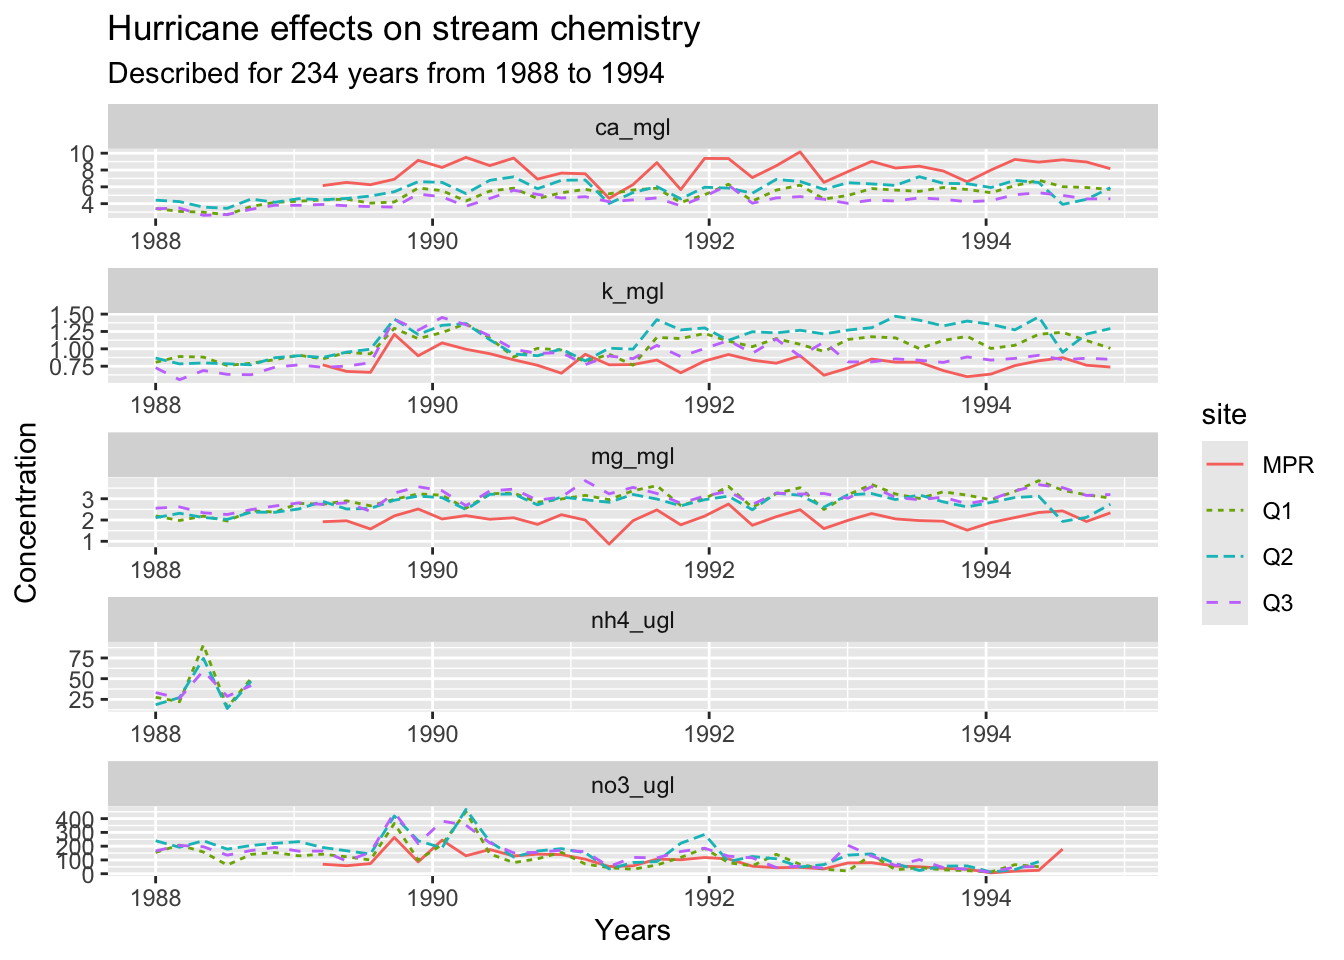
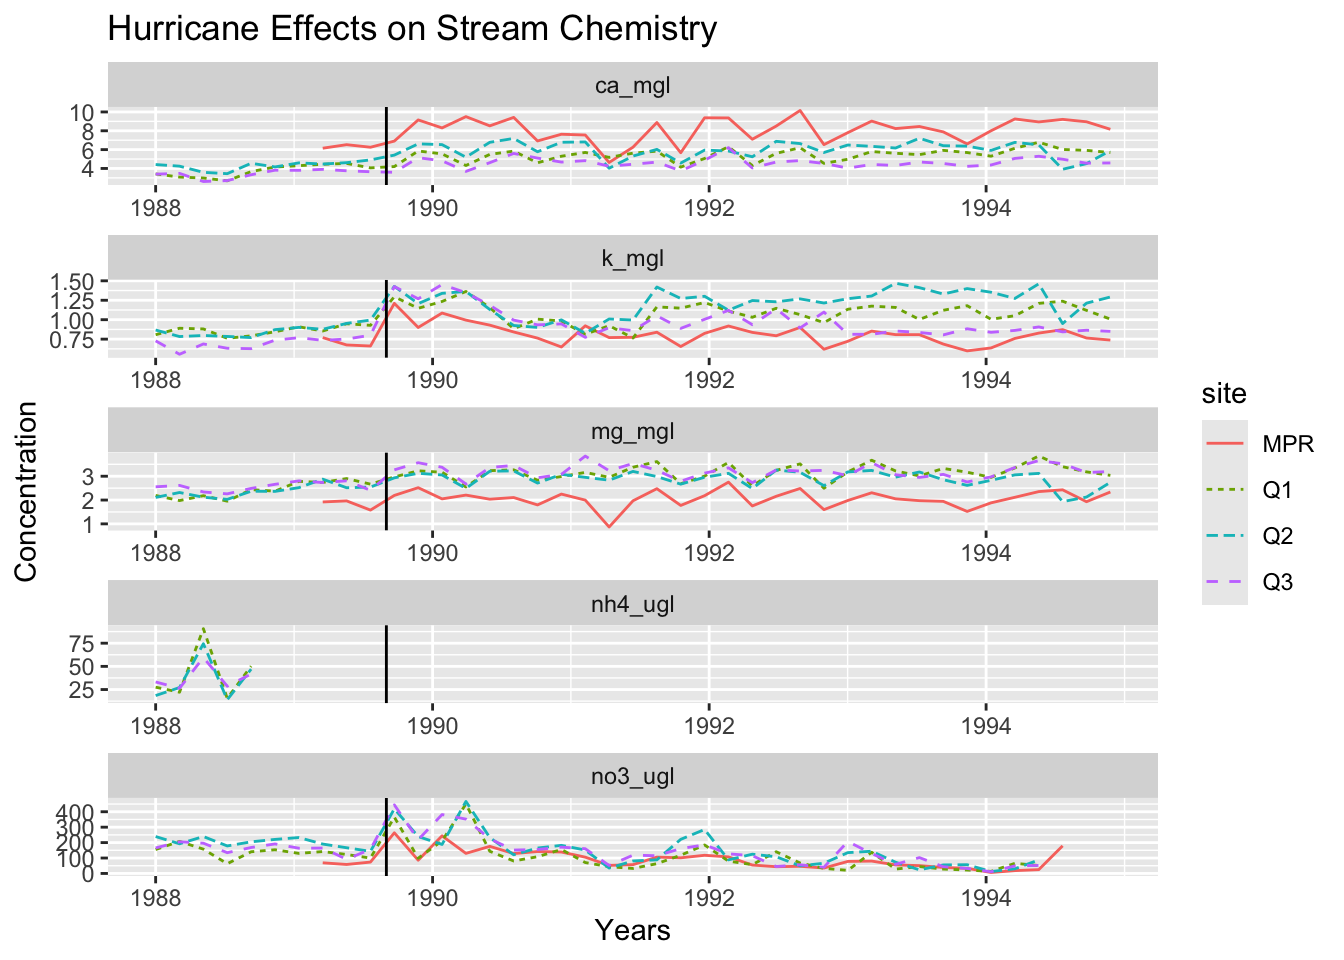
final project pm

Changed region(s): [[0.0312, 0.0, 0.9688, 0.9062], [0.0, 0.4062, 0.0312, 0.625]]

diff --git a/docs/paper.html b/docs/paper.html
@@ -9,7 +9,7 @@
 <meta name="author" content="Karla Ramos">
 <meta name="dcterms.date" content="2026-08-28">
 
-<title>Hurricane Hugos’ impact on stream chemistry in Brisley, Puerto Rico</title>
+<title>Hurricane Hugo’s disturbance on Stream Chemistry in Brisley, Puerto Rico</title>
 <style>
 /* Default styles provided by pandoc.
 ** See https://pandoc.org/MANUAL.html#variables-for-html for config info.
@@ -90,6 +90,7 @@ pre > code.sourceCode > span > a:first-child::before { text-decoration: underlin
   <li><a href="#data" id="toc-data" class="nav-link" data-scroll-target="#data"><span class="header-section-number">2</span> Data</a></li>
   <li><a href="#methods" id="toc-methods" class="nav-link" data-scroll-target="#methods"><span class="header-section-number">3</span> Methods</a></li>
   <li><a href="#results" id="toc-results" class="nav-link" data-scroll-target="#results"><span class="header-section-number">4</span> Results</a></li>
+  <li><a href="#refrences" id="toc-refrences" class="nav-link" data-scroll-target="#refrences"><span class="header-section-number">5</span> Refrences</a></li>
   </ul>
 </nav>
 </div>
@@ -97,7 +98,7 @@ pre > code.sourceCode > span > a:first-child::before { text-decoration: underlin
 
 <header id="title-block-header" class="quarto-title-block default">
 <div class="quarto-title">
-<h1 class="title">Hurricane Hugos’ impact on stream chemistry in Brisley, Puerto Rico</h1>
+<h1 class="title">Hurricane Hugo’s disturbance on Stream Chemistry in Brisley, Puerto Rico</h1>
 </div>
 
 
@@ -128,17 +129,17 @@ pre > code.sourceCode > span > a:first-child::before { text-decoration: underlin
 
 <section id="background" class="level2" data-number="1">
 <h2 data-number="1" class="anchored" data-anchor-id="background"><span class="header-section-number">1</span> Background</h2>
-<p>This repository purpose is to reproduce figure 3 from Schaefer et al.&nbsp;(2000), that demonstrated the changes in stream chemistry overtime including hurricane disturbance by Huricane Hugo. The analysis focus on concentration changes in (a) potassium, (b) nitrate-N, (c) magnesium, (d) calcium and (e) ammonium-N in Bisley bason and Rio Mameyes Punete Roto.</p>
+<p>This repository purpose is to reproduce figure 3 from Schaefer et al.&nbsp;(2000), that demonstrate the changes in stream chemistry overtime including hurricane disturbance by Huricane Hugo. The analysis focus on concentration changes in (a) potassium, (b) nitrate-N, (c) magnesium, (d) calcium and (e) ammonium-N in Bisley bason and Rio Mameyes Punete Roto.</p>
 </section>
 <section id="data" class="level2" data-number="2">
 <h2 data-number="2" class="anchored" data-anchor-id="data"><span class="header-section-number">2</span> Data</h2>
-<p>Raw data was downloaded from the Environmental Data Initiative. https://doi.org/10.6073/pasta/f31349bebdc304f758718f4798d25458.</p>
-<p>McDowell, W. and International Institute of Tropical Forestry(IITF), USDA Forest Service.. 2024. Chemistry of stream water from the Luquillo Mountains ver 4923064.</p>
+<p>Raw data was downloaded from the Environmental Data Initiative. <a href="https://doi.org/10.6073/pasta/f31349bebdc304f758718f4798d25458." class="uri">https://doi.org/10.6073/pasta/f31349bebdc304f758718f4798d25458.</a></p>
+<p>McDowell, W. and International Institute of Tropical Forestry(IITF), USDA Forest Service. 2024. Chemistry of stream water from the Luquillo Mountains ver 4923064.</p>
 </section>
 <section id="methods" class="level2" data-number="3">
 <h2 data-number="3" class="anchored" data-anchor-id="methods"><span class="header-section-number">3</span> Methods</h2>
-<p>1_Cleaned_data was developed by applying moving-average() and tidy-data() functions. The tidy_data function filters all the data from 1988-1994 and selects the ions needed for analysis. The moving-average function applies 9 week moving average and calulates the mean average for every site.</p>
-<p>Sites are combined into one data frame to develop a csv found in ouput/. With the ouput data you will pivot longer to collapse all ions into one column to facit by ion.</p>
+<p>A 9 week moving average was applied to the raw data and filtered to include the concentrations needed to create figure 3.</p>
+<p>Final data combined all ions into one column to assist with plotting.</p>
 </section>
 <section id="results" class="level2" data-number="4">
 <h2 data-number="4" class="anchored" data-anchor-id="results"><span class="header-section-number">4</span> Results</h2>
@@ -161,10 +162,10 @@ pre > code.sourceCode > span > a:first-child::before { text-decoration: underlin
 <span id="cb1-16"><a href="#cb1-16" aria-hidden="true" tabindex="-1"></a>) <span class="sc">+</span></span>
 <span id="cb1-17"><a href="#cb1-17" aria-hidden="true" tabindex="-1"></a>  <span class="fu">geom_line</span>() <span class="sc">+</span></span>
 <span id="cb1-18"><a href="#cb1-18" aria-hidden="true" tabindex="-1"></a>  <span class="fu">facet_wrap</span>(<span class="sc">~</span>Ion, <span class="at">scales =</span> <span class="st">"free"</span>, <span class="at">ncol =</span> <span class="dv">1</span>) <span class="sc">+</span></span>
-<span id="cb1-19"><a href="#cb1-19" aria-hidden="true" tabindex="-1"></a>  <span class="fu">labs</span>(</span>
-<span id="cb1-20"><a href="#cb1-20" aria-hidden="true" tabindex="-1"></a>    <span class="at">title =</span> <span class="st">"Hurricane effects on stream chemistry"</span>,</span>
-<span id="cb1-21"><a href="#cb1-21" aria-hidden="true" tabindex="-1"></a>    <span class="at">subtitle =</span> <span class="fu">paste0</span>(<span class="st">"Described for "</span>, <span class="fu">nrow</span>(mpg), <span class="st">" years from 1988 to 1994"</span>),</span>
-<span id="cb1-22"><a href="#cb1-22" aria-hidden="true" tabindex="-1"></a>    <span class="at">x =</span> <span class="st">"Years"</span>,</span>
+<span id="cb1-19"><a href="#cb1-19" aria-hidden="true" tabindex="-1"></a>  <span class="fu">geom_vline</span>(<span class="at">xintercept =</span> <span class="fu">as.Date</span>(<span class="st">"1989-09-01"</span>)) <span class="sc">+</span></span>
+<span id="cb1-20"><a href="#cb1-20" aria-hidden="true" tabindex="-1"></a>  <span class="fu">labs</span>(</span>
+<span id="cb1-21"><a href="#cb1-21" aria-hidden="true" tabindex="-1"></a>    <span class="at">title =</span> <span class="st">"Hurricane Effects on Stream Chemistry"</span>,</span>
+<span id="cb1-22"><a href="#cb1-22" aria-hidden="true" tabindex="-1"></a>    <span class="at">x =</span> <span class="st">"Years"</span></span>
 <span id="cb1-23"><a href="#cb1-23" aria-hidden="true" tabindex="-1"></a>  )</span></code></pre></div><button title="Copy to Clipboard" class="code-copy-button"><i class="bi"></i></button></div>
 <div class="cell-output-display">
 <div>
@@ -174,6 +175,12 @@ pre > code.sourceCode > span > a:first-child::before { text-decoration: underlin
 </div>
 </div>
 </div>
+<p>The results demonstrate the average streamwater concentration before and after the disturbance of Huricane Hugo.</p>
+</section>
+<section id="refrences" class="level2" data-number="5">
+<h2 data-number="5" class="anchored" data-anchor-id="refrences"><span class="header-section-number">5</span> Refrences</h2>
+<p>McDowell, W. and International Institute of Tropical Forestry(IITF), USDA Forest Service.. 2024. Chemistry of stream water from the Luquillo Mountains ver 4923064. Environmental Data Initiative. <a href="https://doi.org/10.6073/pasta/f31349bebdc304f758718f4798d25458" class="uri">https://doi.org/10.6073/pasta/f31349bebdc304f758718f4798d25458</a> (Accessed 2026-08-25).</p>
+<p>Schaefer, Douglas. A., William H. McDowell, Fredrick N. Scatena, and Clyde E. Asbury. 2000. “Effects of Hurricane Disturbance on Stream Water Concentrations and Fluxes in Eight Tropical Forest Watersheds of the Luquillo Experimental Forest, Puerto Rico.” <em>Journal of Tropical Ecology</em> 16 (2): 189–207. <a href="https://doi.org/10.1017/s0266467400001358." class="uri">https://doi.org/10.1017/s0266467400001358.</a></p>
 </section>
 
 </main>

diff --git a/README.html b/README.html
@@ -70,17 +70,16 @@ ul.task-list li input[type="checkbox"] {
 <ol type="1">
 <li><p><strong>clean_data:</strong> Data that has been developed to plot and recreate analysis.</p></li>
 <li><p><strong>data:</strong> Raw data entries from Chemistry of stream water from the Luquillo Mountains ver 4923064, Brisley Quebradas (1-3) and Rio Mameyes Puerto Roto.</p></li>
-<li><p><strong>docs:</strong></p></li>
-<li><p><strong>figs:</strong></p></li>
-<li><p><strong>output:</strong> csv created from 1_clean_data.R</p></li>
-<li><p><strong>paper:</strong></p></li>
-<li><p><strong>R:</strong> Functions created when cleaning the data</p></li>
-<li><p><strong>reports:</strong></p></li>
+<li><p><strong>docs:</strong> Rendered version of paper.</p></li>
+<li><p><strong>output:</strong> Csv created from clean data.</p></li>
+<li><p><strong>paper:</strong> Paper that breaksdown the project details and results.</p></li>
+<li><p><strong>R:</strong> Functions created to clean data for analysis.</p></li>
 </ol>
 </section>
 <section id="data" class="level2">
 <h2 class="anchored" data-anchor-id="data">Data</h2>
 <p>McDowell, W. and International Institute of Tropical Forestry(IITF), USDA Forest Service.. 2024. Chemistry of stream water from the Luquillo Mountains ver 4923064. Environmental Data Initiative. https://doi.org/10.6073/pasta/f31349bebdc304f758718f4798d25458 (Accessed 2026-08-25).</p>
+<p>1_Cleaned_data was developed by applying moving-average() and tidy-data() functions. The tidy_data function filters all the data from 1988-1994 and selects the ions needed for analysis. The moving-average function applies 9 week moving average and calulates the mean average for every site.</p>
 </section>
 <section id="refrences" class="level2">
 <h2 class="anchored" data-anchor-id="refrences">Refrences</h2>

diff --git a/README.MD b/README.MD
@@ -21,20 +21,20 @@ This repository purpose is to reproduce figure 3 from Schaefer et al. (2000), th
 
 2. **data:** Raw data entries from Chemistry of stream water from the Luquillo Mountains ver 4923064, Brisley Quebradas (1-3) and Rio Mameyes Puerto Roto.
 
-3. **docs:** 
+3. **docs:** Rendered version of paper.
 
-4. **figs:**
+4. **output:** Csv created from clean data.
 
-5. **output:** csv created from 1_clean_data.R 
+5. **paper:** Paper that breaksdown the project details and results.
 
-6. **paper:** 
+6. **R:** Functions created to clean data for analysis.
 
-7. **R:** Functions created when cleaning the data
-
-8. **reports:**
 
 ## Data 
 McDowell, W. and International Institute of Tropical Forestry(IITF), USDA Forest Service.. 2024. Chemistry of stream water from the Luquillo Mountains ver 4923064. Environmental Data Initiative. https://doi.org/10.6073/pasta/f31349bebdc304f758718f4798d25458 (Accessed 2026-08-25).
+
+1_Cleaned_data was developed by applying moving-average() and tidy-data() functions. The tidy_data function filters all the data from 1988-1994 and selects the ions needed for analysis. The moving-average function applies 
+9 week moving average and calulates the mean average for every site.
 
 
 ## Refrences
